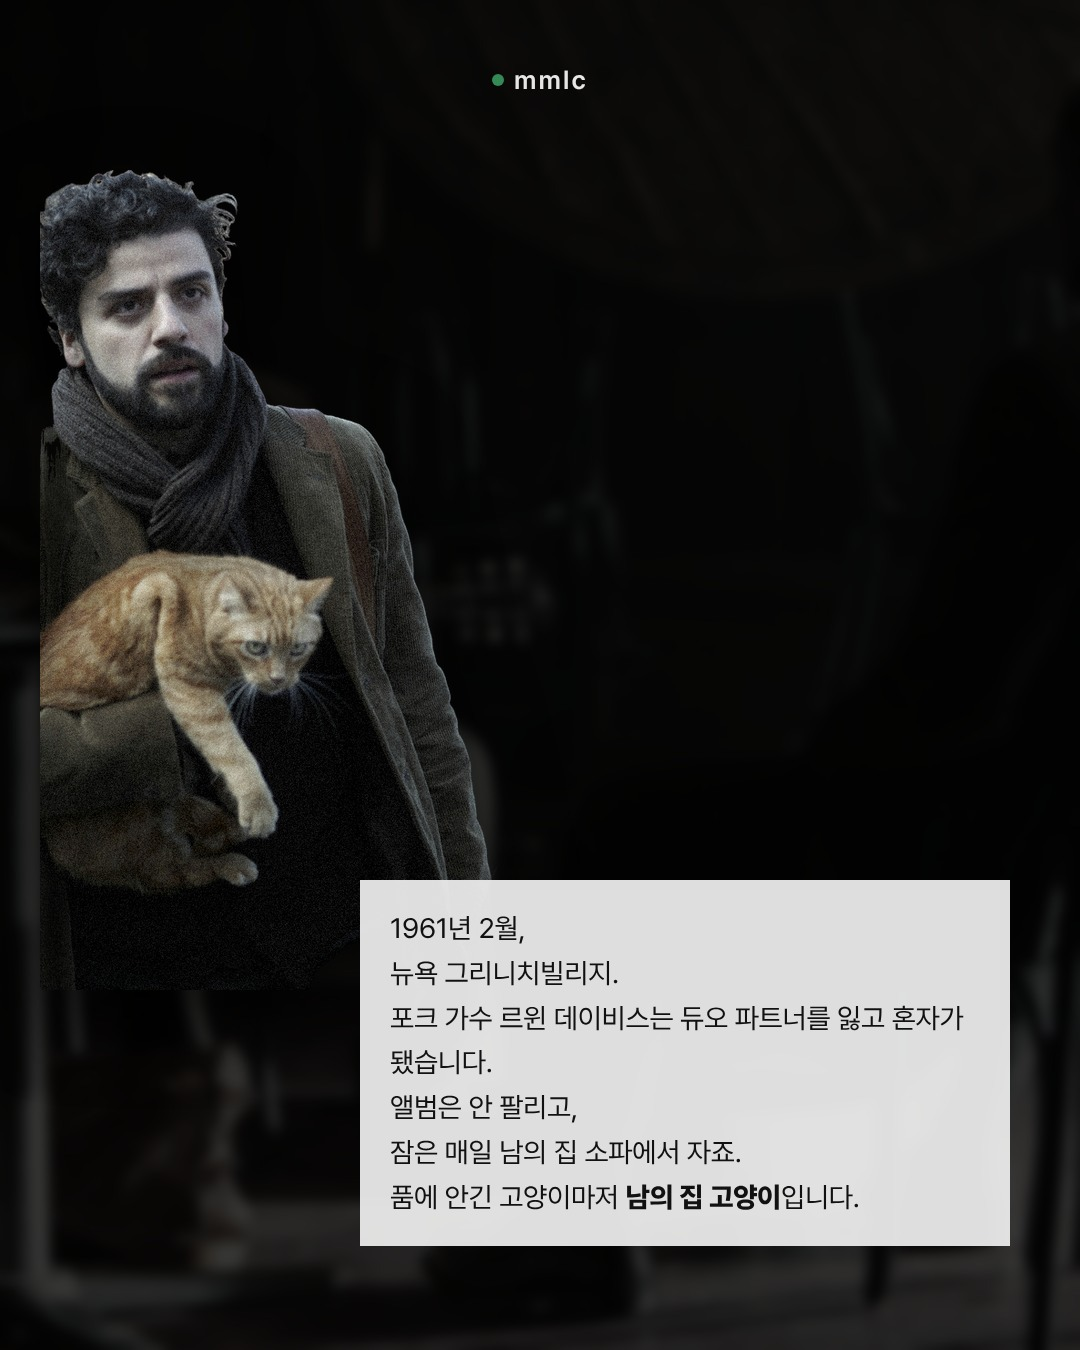
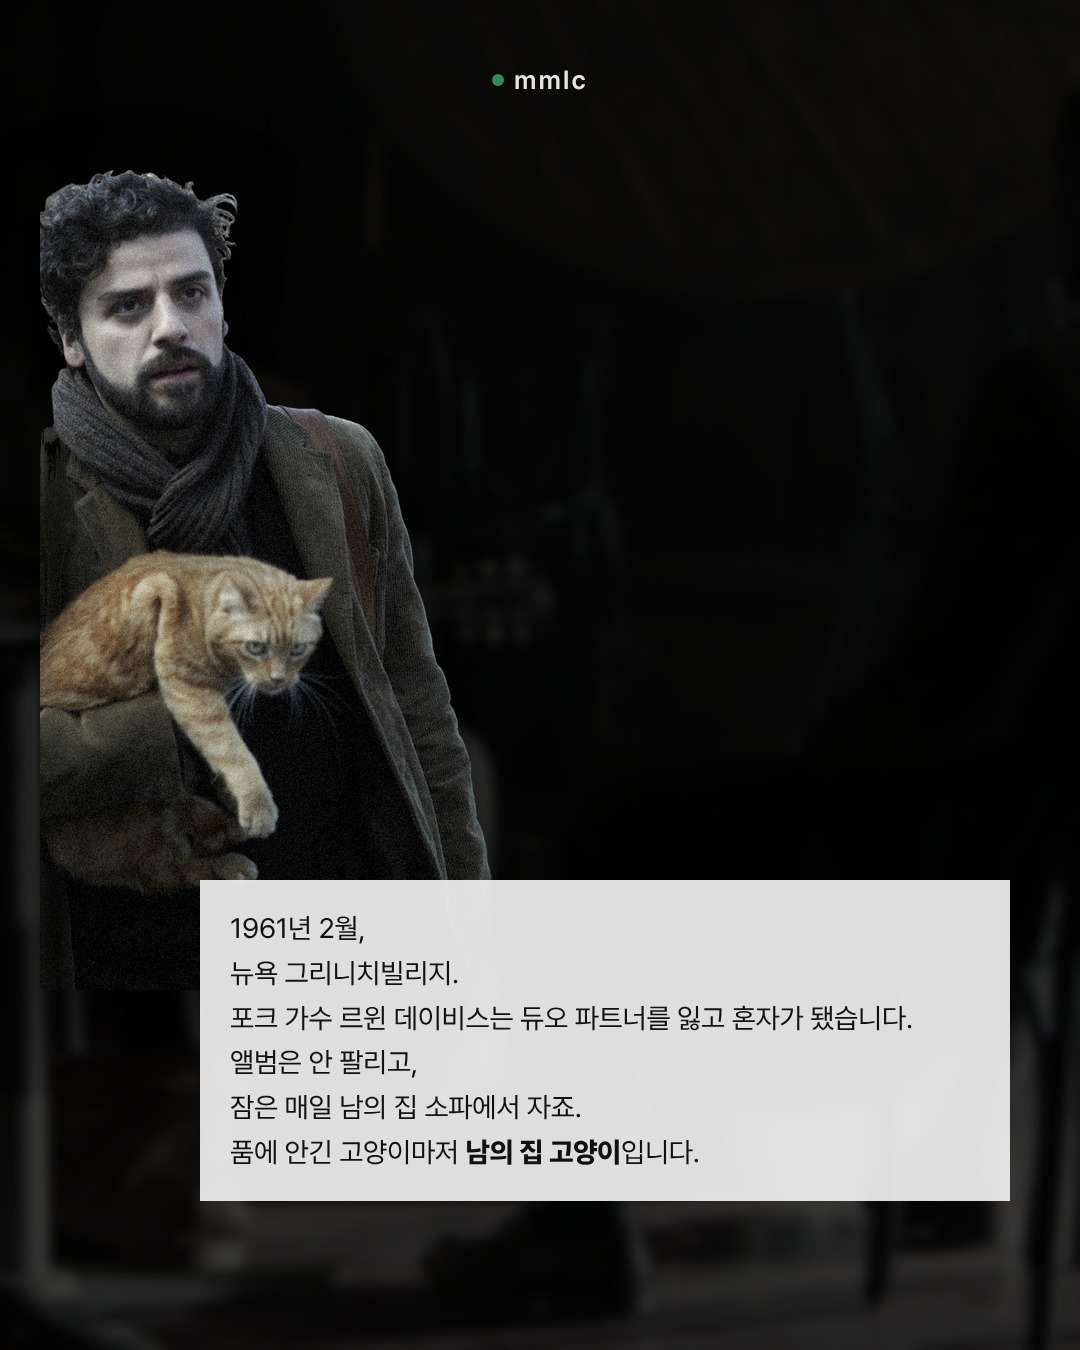
인사이드 르윈: 2장 박스 가로로 넓힘
Claude-Session: https://claude.ai/code/session_01VEGji1Wx9t8xn4NvfBmGPJ

Changed region(s): [[0.1833, 0.6533, 0.9472, 0.9333]]

diff --git a/templates/story-article/llewyn/render.py b/templates/story-article/llewyn/render.py
@@ -48,7 +48,7 @@ P.append(wrap(f'<div class="bg" style="background-image:url({b(cov)})"></div><di
 d,cw,ch=png('cut_cat.png',820)
 P.append(wrap(f'''<div class="bg" style="background-image:url({bgdim('st6.jpg',0.5,0.5,0.22,6)})"></div>
 <img class="cut" src="{d}" style="left:40px;top:170px;width:{cw}px">
-<div class="box" style="top:880px;left:360px;right:70px">1961년 2월,<br>뉴욕 그리니치빌리지.<br>포크 가수 르윈 데이비스는 듀오 파트너를 잃고 혼자가 됐습니다.<br>앨범은 안 팔리고,<br>잠은 매일 남의 집 소파에서 자죠.<br>품에 안긴 고양이마저 <b>남의 집 고양이</b>입니다.</div>
+<div class="box" style="top:880px;left:200px;right:70px">1961년 2월,<br>뉴욕 그리니치빌리지.<br>포크 가수 르윈 데이비스는 듀오 파트너를 잃고 혼자가 됐습니다.<br>앨범은 안 팔리고,<br>잠은 매일 남의 집 소파에서 자죠.<br>품에 안긴 고양이마저 <b>남의 집 고양이</b>입니다.</div>
 '''))
 # 3 real model — mic still full + sofa? use mic still as photo
 mic=tone(fit(Image.open('st1.jpg').convert('RGB'),940,560,0.6,0.5))
